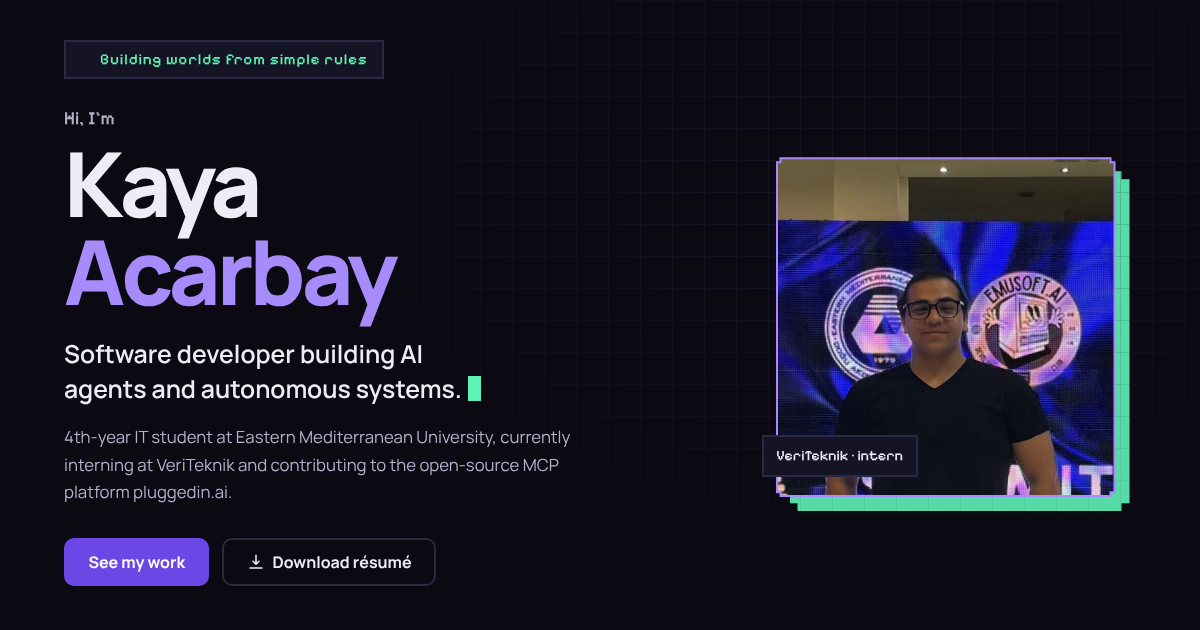
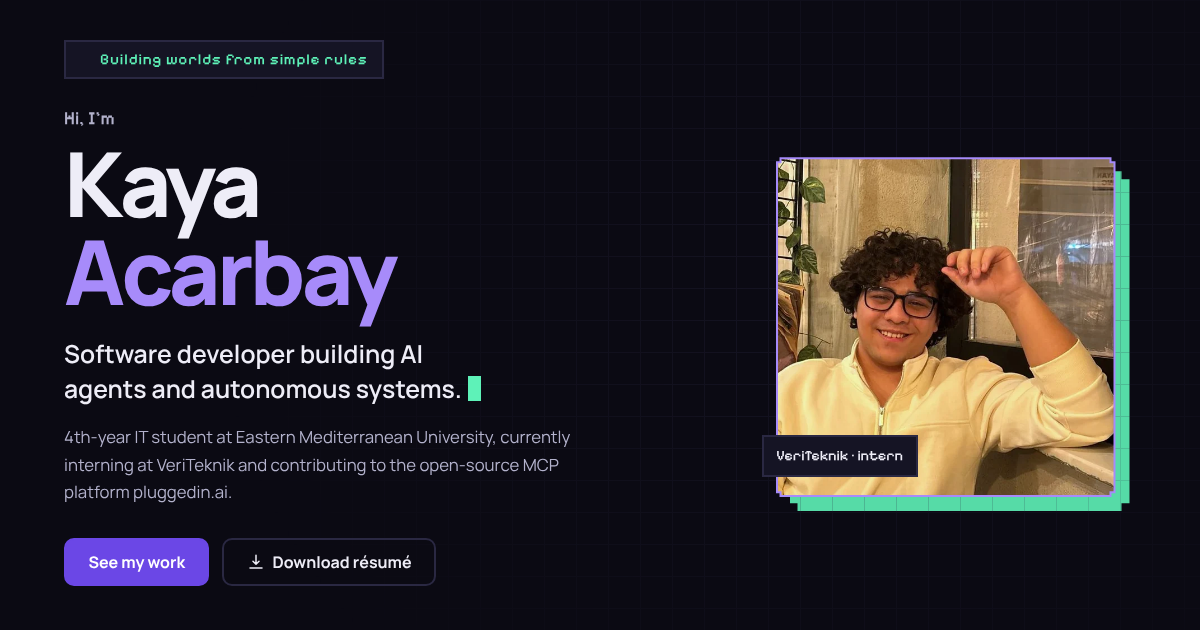
New hero portrait, About photo, refreshed social image
Claude-Session: https://claude.ai/code/session_01CPn8vUw12i7AuAya8MWU8e

Changed region(s): [[0.6475, 0.2413, 0.9558, 0.7841]]

diff --git a/index.html b/index.html
@@ -86,7 +86,7 @@
           </div>
         </div>
         <div class="portrait">
-          <div class="px"><div class="px-in"><img src="assets/img/kaya.webp" width="520" height="520" alt="Portrait of Kaya Acarbay" fetchpriority="high"></div></div>
+          <div class="px"><div class="px-in"><img src="assets/img/kaya.webp" width="520" height="520" alt="Kaya Acarbay smiling in a café, hand raised to his hair" fetchpriority="high"></div></div>
           <span class="tag-badge">VeriTeknik · intern</span>
         </div>
       </div>
@@ -106,9 +106,15 @@
     <div class="wrap">
       <p class="label reveal" data-i18n="about.label">About</p>
       <h2 id="about-title" class="reveal" data-i18n="about.title">Curious about how complex systems emerge</h2>
-      <div class="reveal" style="max-width:68ch;display:grid;gap:1rem;color:var(--soft);font-size:1.08rem">
+      <div class="about reveal">
+        <div class="prose">
         <p data-i18n="about.p1">I'm a software developer and 4th-year Information Technology student at Eastern Mediterranean University. I like projects where simple rules produce surprising behavior: agent simulations, autonomous tools and the infrastructure that keeps them running.</p>
         <p data-i18n="about.p2">At VeriTeknik I support infrastructure monitoring and customer tickets, and I've contributed a fix to the open-source MCP server platform pluggedin.ai. Outside work I mentor high-school students on TÜBİTAK research, and I spent an Erasmus+ exchange in Portugal.</p>
+      </div>
+        <figure class="about-photo">
+          <div class="px"><div class="px-in"><img src="assets/img/kaya-fun.webp" width="560" height="560" alt="Kaya Acarbay with a Bulbasaur plush on his head, making a peace sign" loading="lazy"></div></div>
+          <figcaption data-i18n="about.photo">Off the clock, with a Bulbasaur on my head.</figcaption>
+        </figure>
       </div>
     </div>
   </section>

diff --git a/assets/app.js b/assets/app.js
@@ -24,6 +24,7 @@
     'about.title': 'Karmaşık sistemlerin nasıl ortaya çıktığını merak ediyorum',
     'about.p1': 'Yazılım geliştiriciyim ve Doğu Akdeniz Üniversitesi’nde bilişim teknolojileri 4. sınıf öğrencisiyim. Basit kuralların şaşırtıcı davranışlar doğurduğu projeleri severim: ajan simülasyonları, otonom araçlar ve bunları ayakta tutan altyapı.',
     'about.p2': 'VeriTeknik’te altyapı izleme ve müşteri taleplerine destek veriyorum; açık kaynak MCP sunucu platformu pluggedin.ai’ye bir düzeltme katkısında bulundum. İş dışında lise öğrencilerine TÜBİTAK araştırmaları için mentorluk yapıyorum ve Erasmus+ ile Portekiz’de bulundum.',
+    'about.photo': 'Mesai dışı, kafamda Bulbasaur’la.',
     'work.label': 'Seçili işler', 'work.title': 'Geliştirdiklerim',
     'civ.tab1': 'Harita', 'civ.tab2': '99. yıl', 'civ.tab3': 'Tarih kitabı', 'civ.tab4': 'Krallıklar',
     'civ.badge': 'Öne çıkan proje',

diff --git a/assets/style.css b/assets/style.css
@@ -252,3 +252,12 @@ footer .wrap{display:flex;flex-wrap:wrap;gap:.6rem 1.5rem;justify-content:space-
 .gallery{display:grid;grid-template-columns:repeat(2,minmax(0,1fr));gap:1.4rem}
 .gallery .shot:first-child{grid-column:1/-1}
 @media (max-width:760px){.cards2,.gallery{grid-template-columns:1fr}.page-hero{padding:32px 0 56px}}
+
+/* About with photo */
+.about{display:grid;grid-template-columns:minmax(0,1fr) 300px;gap:3rem;align-items:start}
+.about .prose{max-width:62ch}
+.about-photo{margin:0}
+.about-photo .px{display:block;--c:var(--border)}
+.about-photo img{width:100%;aspect-ratio:1;object-fit:cover}
+.about-photo figcaption{color:var(--faint);font-size:.92rem;margin-top:.7rem}
+@media (max-width:860px){.about{grid-template-columns:1fr;gap:2rem}.about-photo{max-width:300px}}
